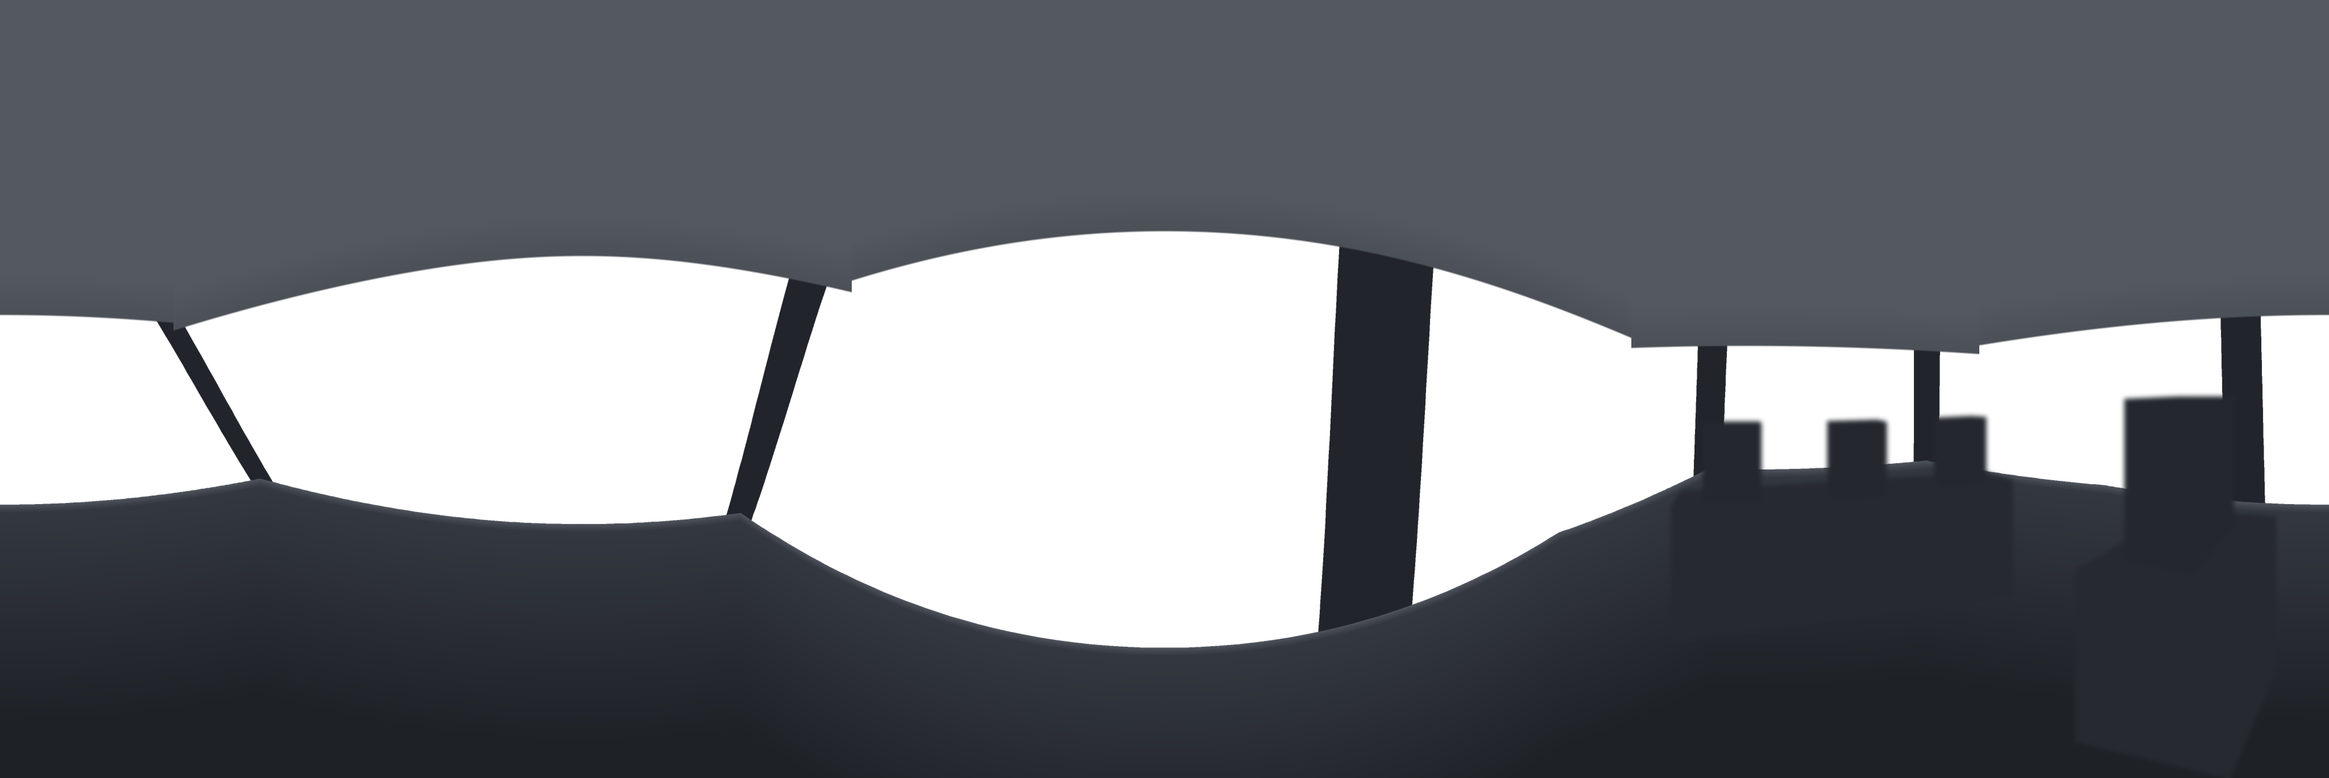
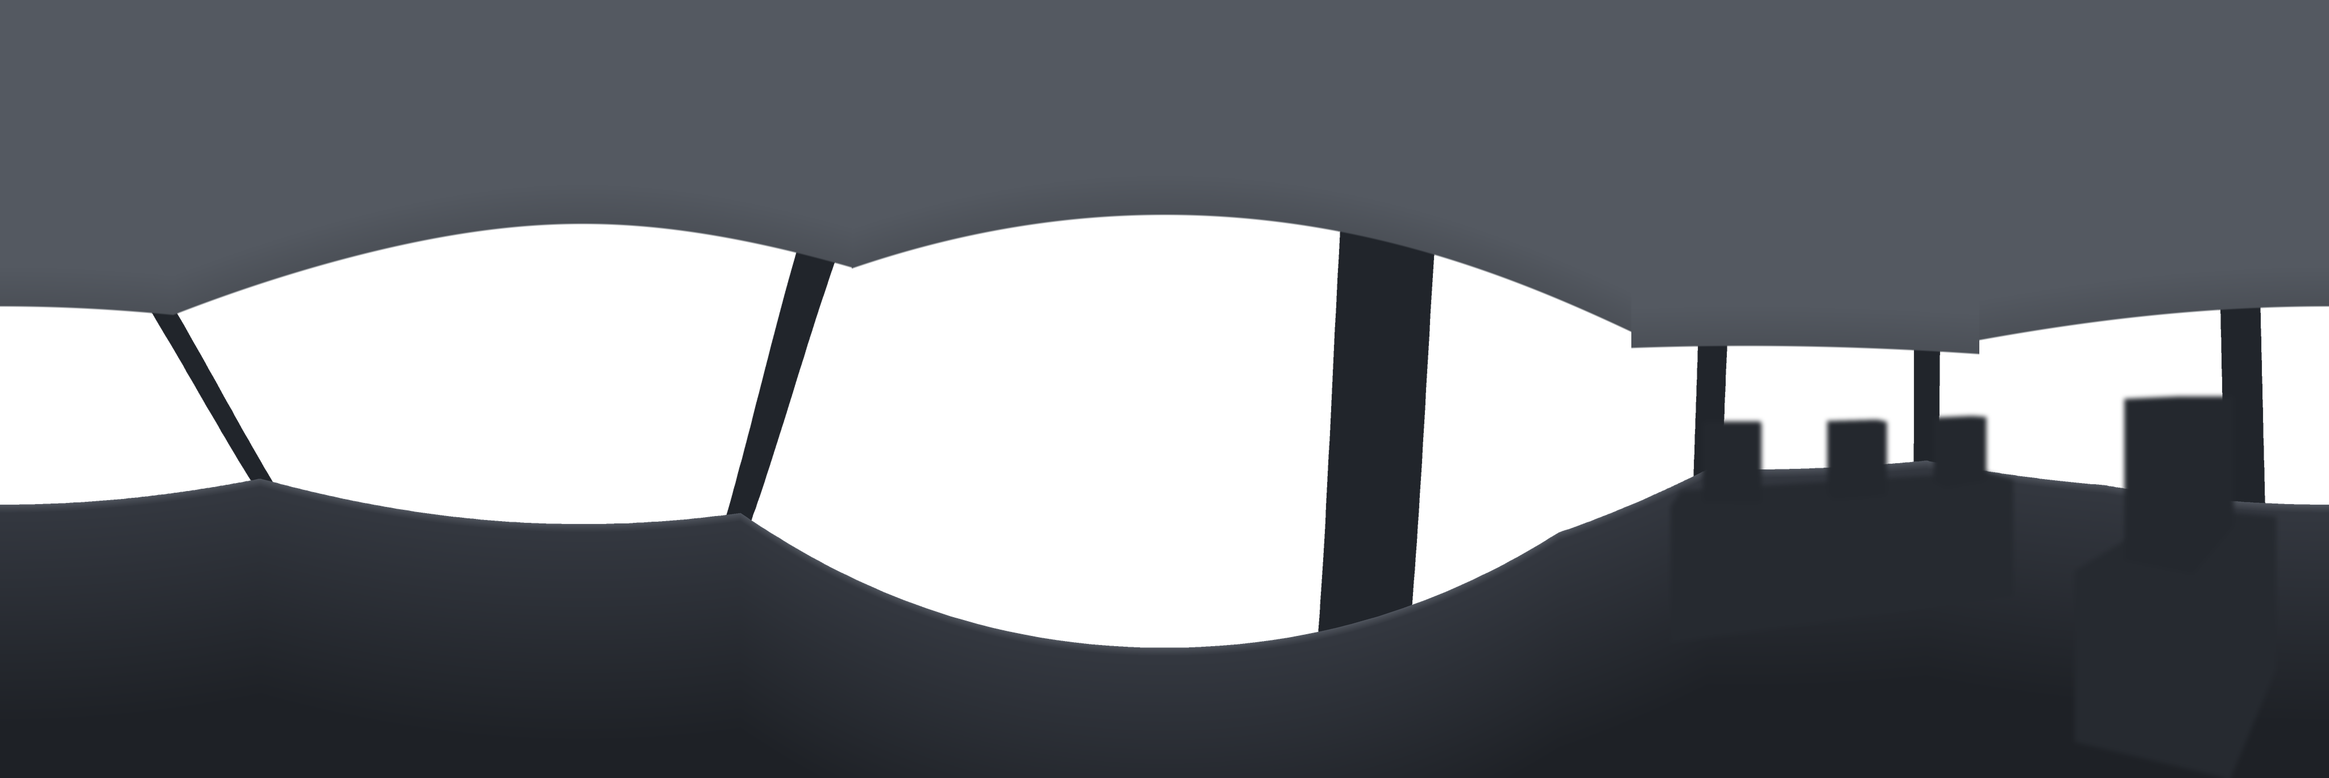
Driving view: 85° FOV, eyes slightly down; interior mirror out of normal view (only a sliver), level when glanced at
Claude-Session: https://claude.ai/code/session_016Zy8X1pPCmx7oSK87GxSWN

Changed region(s): [[0.0, 0.2761, 0.7188, 0.4295], [0.875, 0.3682, 1.0, 0.4295], [0.8438, 0.4295, 0.875, 0.4602]]

diff --git a/lib/cockpit.js b/lib/cockpit.js
@@ -11,15 +11,17 @@ const cb=(w,h,d,m,x,y,z,rx,ry,rz)=>{const o=mesh(new T.BoxGeometry(w,h,d),m,x,y,
 // 两点之间的一根杆：两端落在指定点上，保证 A 柱与车顶、仪表台真正相连
 const rod=(a,b,w,h,m)=>{const L=Math.hypot(b[0]-a[0],b[1]-a[1],b[2]-a[2]),o=new T.Mesh(new T.BoxGeometry(w,h,L),m);o.position.set((a[0]+b[0])/2,(a[1]+b[1])/2,(a[2]+b[2])/2);o.lookAt(b[0],b[1],b[2]);cockpit.add(o);return o};
 const imC=document.createElement('canvas');imC.width=256;imC.height=60;const imX=imC.getContext('2d'),imT=new T.CanvasTexture(imC),IM=new T.MeshBasicMaterial({map:imT});
-// 车顶：小轿车司机头顶到顶棚约一拳，挡风玻璃上沿只比眼睛高约 20°（全景图 pano2：上半部分按 2 倍压低）
-// 中镜挂在挡风玻璃上沿正中（约 0.6 米前、0.2 米高，抬头约 16°）：平时在画面上方看得到，但是模糊、偏暗；
+// 车顶：小轿车司机头顶到顶棚约一拳，挡风玻璃上沿比眼睛高约 24°（全景图 pano2：顶棚边缘按真车的平顶重新画过）
+// 中镜挂在挡风玻璃上沿正中（约 0.6 米前、0.26 米高，抬头约 20°）：平时往前看最多露出下面一小半（模糊、偏暗）；
 // 看中镜时视线往上抬 MPIT、镜头拉近（中镜放大约 1.5 倍）、镜子变清楚（见文件末尾 MIRF）；看中镜这一步停留得长一些（MSLOW）
 const MSLOW=.45;      // 看中镜、看外后视镜：时间走得慢一些（各约 0.8～1 秒），视线停稳在镜子上，看得清
-const MRY=-.1,MRZ=0;      // 中镜和真车一样：横着挂在挡风玻璃上沿正中，长边和车顶平行，只稍微转向司机一点
+const MRY=-.35,MRZ=0;      // 中镜和真车一样：横着挂在挡风玻璃上沿正中，长边和车顶平行，只稍微转向司机一点
 // 视角：画面横向 95°（以前 110° 太广，东西都显得又小又远，像坐在车顶很高的大车里）
-const FOVD=95;
+const FOVD=85;
+// 平时开车往前看：视线稍微往下（约 1.7°），画面上沿约比眼睛高 21°：中镜（约 20°）最多露出下面一小半，挡风玻璃上沿基本在画面外
+const BASEP=-.03;
 // 看镜子时视线正对镜子（驾驶员眼睛在车内 x=.38 处）：中镜（右上方）、左镜、右镜的方向（转头角、抬头量）
-const MYAW=.58,MPIT=.23,MLYAW=-.66,MLPIT=-.38,MRYAW=1.03,MRPIT=-.3;
+const MYAW=.57,MPIT=.39,MLYAW=-.66,MLPIT=-.3,MRYAW=1.03,MRPIT=-.22;
       // MRY：中镜朝司机这边转一点（真车的中镜也是斜着对着司机），从驾驶座看过去是正的
 // 中镜：平时是空路，停车一会儿后显示后车车头（鸣笛时它就在后面）
 function setMir(on){if(setMir.s===on)return;setMir.s=on;const x=imX,w=256,h=60,g=x.createLinearGradient(0,0,0,h);
@@ -32,7 +34,7 @@ function setMir(on){if(setMir.s===on)return;setMir.s=on;const x=imX,w=256,h=60,g
 setMir(false);
 let cluster=null,CLM=null;
 { // 车内壳体：一张环绕驾驶员的全景图（深灰、无细节），贴在驾驶员眼睛处的透明球体内侧。转头时它跟车不动。
- const pt=new T.TextureLoader().load('assets/pano2.png');pt.minFilter=T.LinearFilter;pt.generateMipmaps=false;
+ const pt=new T.TextureLoader().load('assets/pano2.png?v=1126j');pt.minFilter=T.LinearFilter;pt.generateMipmaps=false;
  const sp=new T.Mesh(new T.SphereGeometry(1.3,128,32,0,Math.PI*2,Math.PI/2-1.05,2.1),new T.MeshBasicMaterial({map:pt,transparent:true,side:T.BackSide,depthWrite:false,fog:false}));
  sp.position.set(.38,0,0);sp.renderOrder=1;sp.frustumCulled=false;cockpit.add(sp);
  // 仪表盘：只画一次的静态图（两个圆表盘）
@@ -43,14 +45,14 @@ let cluster=null,CLM=null;
   x.fillStyle='#8be3a0';x.fillRect(118,34,20,10)}));
  const cl=mesh(new T.BoxGeometry(.5,.15,.02),new T.MeshBasicMaterial({map:clT}),.38,-.42,.9);cl.rotation.x=.25;cockpit.add(cl);CLM=cl;
  // 中间后视镜：短支架
- rod([0,.27,.57],[0,.235,.61],.02,.02,DK);{const j=new T.Mesh(new T.SphereGeometry(.018,10,8),DK);j.position.set(0,.235,.61);cockpit.add(j)}   /* 连杆一直插进镜壳背面，加一个球形接头，不留缝 */cb(.07,.02,.04,DK,0,.27,.57);cb(.27,.075,.035,DK,0,.2,.6,0,MRY,MRZ);{const o=cb(.24,.052,.012,IM,0,.2,.58,0,MRY,MRZ);o.position.x-=.02*Math.sin(MRY)}}
+ rod([0,.32,.57],[0,.295,.61],.02,.02,DK);{const j=new T.Mesh(new T.SphereGeometry(.018,10,8),DK);j.position.set(0,.295,.61);cockpit.add(j)}   /* 连杆一直插进镜壳背面，加一个球形接头，不留缝 */cb(.07,.02,.04,DK,0,.32,.57);cb(.27,.075,.035,DK,0,.26,.6,0,MRY,MRZ);{const o=cb(.24,.052,.012,IM,0,.26,.58,0,MRY,MRZ);o.position.x-=.02*Math.sin(MRY)}}
 // 方向盘：只有轮圈、辐条和中心
 const wheelP=new T.Group();wheelP.position.set(.38,-.4,.62);      // 方向盘上移：能看到一半多一点，包括中间的标志
 wheelP.rotation.x=.5;wheelP.scale.set(.88,.88,.88);cockpit.add(wheelP);
 const wheel=new T.Group();wheelP.add(wheel);
 wheel.add(mesh(new T.TorusGeometry(.17,.03,12,32),DK,0,0,0));
 // 按屏幕比例摆放方向盘：不管电脑还是手机，方向盘中心（标志）都在画面下沿往上一点，露出一半多一点
-function fitWheel(){const vh=Math.min(105,2*Math.atan(Math.tan(FOVD/2*Math.PI/180)/cam.aspect)*180/Math.PI)/2*Math.PI/180,ang=vh*.88;      // 方向盘中心在画面下沿往上约四分之一处
+function fitWheel(){const vh=Math.min(105,2*Math.atan(Math.tan(FOVD/2*Math.PI/180)/cam.aspect)*180/Math.PI)/2*Math.PI/180,ang=vh*.88+.05-Math.atan(BASEP);      // 方向盘中心在画面下沿往上约四分之一处
  wheelP.position.y=-.62*Math.tan(ang);if(CLM)CLM.position.y=-.9*Math.tan(Math.max(.05,ang-.12))}
 wheel.add(mesh(new T.BoxGeometry(.3,.04,.03),DK,0,0,0));wheel.add(mesh(new T.BoxGeometry(.04,.15,.03),DK,0,-.09,0));
 {const hub=mesh(new T.CylinderGeometry(.068,.068,.05,20),DK2,0,0,0);hub.rotation.x=Math.PI/2;wheel.add(hub);
@@ -59,7 +61,7 @@ const rr=(w,h,r)=>{const s=new T.Shape(),x=-w/2,y=-h/2;s.moveTo(x+r,y);s.lineTo(
 // 三个后视镜的贴图：一个朝后的小镜头，画面左右翻转后贴在镜面上
 const MR=[];function mkMir(w,h,pos,dir,fov){const rt=new T.WebGLRenderTarget(w,h,{minFilter:T.LinearFilter,magFilter:T.LinearFilter});rt.texture.wrapS=T.RepeatWrapping;rt.texture.repeat.x=-1;rt.texture.offset.x=1;
  const m={rt,c:new T.PerspectiveCamera(fov,w/h,.3,300),pos:new T.Vector3(pos[0],pos[1],pos[2]),dir:new T.Vector3(dir[0],dir[1],dir[2]).normalize()};MR.push(m);return m}
-const MRI=mkMir(256,64,[0,.2,.57],[0,-.04,-1],12),MRL=mkMir(256,128,[1.08,-.3,.9],[.22,-.03,-1],18),MRR=mkMir(256,128,[-1.12,-.3,.9],[-.22,-.03,-1],18);
+const MRI=mkMir(256,64,[0,.26,.57],[0,-.04,-1],12),MRL=mkMir(256,128,[1.08,-.3,.9],[.22,-.03,-1],18),MRR=mkMir(256,128,[-1.12,-.3,.9],[-.22,-.03,-1],18);
 IM.map=MRI.rt.texture;IM.needsUpdate=true;
 // 左右外后视镜：只有镜面＋薄薄的车身色外框，朝向驾驶员
 [[1,1.08,.66,.9],[-1,-1.12,-1.03,.9]].forEach(a=>{const g=new T.Group();g.position.set(a[1],-.3,a[3]);g.rotation.y=a[2];cockpit.add(g);

diff --git a/green-right.js b/green-right.js
@@ -306,7 +306,7 @@ function loop(ts){const dt=Math.min(.05,(ts-last)/1000||0),HY=headS(R,dt);last=t
  if(R.sig&&playing&&!R.over){const on=Math.sin(ts/1000*9.4)>0;$('sg').style.opacity=on?1:.15;if(on!==loop.sgOn){loop.sgOn=on;tick(on)}}
  const q=myPath(R.u);place(mine,q[0],q[1],q[2]);
  if(R.lc){const on=R.lc.u<R.lc.La+1.5,b=Math.sin(ts/1000*15)>0;R.lc.car.userData.bl.forEach(m=>m.visible=on&&b)}
- if(view===1){const h=q[2]+HY.y+yawD,lk=R.lookT>=0&&R.tgt,L=lk?R.lookD:(R.lookT>=0?14:10);fovH+=((lk?FOVD-12:FOVD)-fovH)*.15;cam.fov=Math.min(105,2*Math.atan(Math.tan(fovH*Math.PI/360)/cam.aspect)*180/Math.PI);cam.updateProjectionMatrix();const ox=.38*Math.cos(q[2]),oz=.38*Math.sin(q[2]),bx0=-q[0]+Math.sin(q[2])*.2,bz0=q[1]-Math.cos(q[2])*.2;cam.position.set(bx0+ox,1.25,bz0+oz);cam.lookAt(-q[0]-Math.sin(h)*L+ox,(lk?1.2:1.25+L*.05)+HY.p*L,q[1]+Math.cos(h)*L+oz);
+ if(view===1){const h=q[2]+HY.y+yawD,lk=R.lookT>=0&&R.tgt,L=lk?R.lookD:(R.lookT>=0?14:10);fovH+=((lk?FOVD-12:FOVD)-fovH)*.15;cam.fov=Math.min(105,2*Math.atan(Math.tan(fovH*Math.PI/360)/cam.aspect)*180/Math.PI);cam.updateProjectionMatrix();const ox=.38*Math.cos(q[2]),oz=.38*Math.sin(q[2]),bx0=-q[0]+Math.sin(q[2])*.2,bz0=q[1]-Math.cos(q[2])*.2;cam.position.set(bx0+ox,1.25,bz0+oz);cam.lookAt(-q[0]-Math.sin(h)*L+ox,(lk?1.2:1.25+L*BASEP)+HY.p*L,q[1]+Math.cos(h)*L+oz);
   cockpit.visible=true;cockpit.position.set(bx0,1.25,bz0);cockpit.rotation.y=-q[2];
   const dh=normA(q[2]-lastH)/Math.max(dt,.001);lastH=q[2];wheel.rotation.z+=((Math.max(-2.6,Math.min(2.6,dh*2.4)))-wheel.rotation.z)*Math.min(1,dt*10)}
  else{cockpit.visible=false;if(cam.fov!==62){cam.fov=62;cam.updateProjectionMatrix()}cam.position.set(0,64,-9);cam.lookAt(0,0,-1)}      /* 俯视：固定从本方向（南边）往前看，不能转 */

diff --git a/lib/lowspeed.js b/lib/lowspeed.js
@@ -227,7 +227,7 @@ function loop(ts){const dt=Math.min(.05,(ts-last)/1000||0),HY=headS(R,dt,3.6);  
  const sz=ren.getSize(new T.Vector2()),W=sz.x,HH=sz.y,w2=SCN.noSplit?W:Math.floor(W/2),      /* noSplit：只有驾驶视角，不分屏 */Y=SCN.Y(R.z),gr=Math.atan(SCN.g||0);
  {const h=R.h+HY.y,L=10,fovH=FOVD;cam.aspect=w2/HH;cam.fov=Math.min(105,2*Math.atan(Math.tan(fovH*Math.PI/360)/cam.aspect)*180/Math.PI);cam.updateProjectionMatrix();
   const ox=.38*Math.cos(R.h),oz=.38*Math.sin(R.h),bx0=-R.x+Math.sin(R.h)*.2,bz0=R.z-Math.cos(R.h)*.2;const pitchG=Math.cos(R.h)*(SCN.g||0);
-  cam.position.set(bx0+ox,Y+1.25,bz0+oz);cam.lookAt(-R.x-Math.sin(h)*L+ox,Y+1.25+L*.03+HY.p*L+pitchG*L*Math.cos(HY.y),R.z+Math.cos(h)*L+oz);
+  cam.position.set(bx0+ox,Y+1.25,bz0+oz);cam.lookAt(-R.x-Math.sin(h)*L+ox,Y+1.25+L*BASEP+HY.p*L+pitchG*L*Math.cos(HY.y),R.z+Math.cos(h)*L+oz);
   cockpit.visible=true;cockpit.position.set(bx0,Y+1.25,bz0);cockpit.rotation.order='YXZ';cockpit.rotation.y=-R.h;cockpit.rotation.x=-Math.atan(pitchG);wheel.rotation.z=R.w*WLOCK*Math.PI/180}      /* 往左打，方向盘看起来也往左转（原来方向反了） */
  $('sp').textContent=(Math.abs(R.v)*3.6).toFixed(0);if(cluster)cluster(Math.round(Math.abs(R.v)*3.6));
  MRR.tilt=(MRR.tilt||0)+(((R.gear==='R')?1:0)-(MRR.tilt||0))*Math.min(1,dt*4);MRR.dir.copy(MRR.d0).lerp(MRR.dR,MRR.tilt).normalize();if(SCN.tiltL){MRL.tilt=(MRL.tilt||0)+(((R.gear==='R')?1:0)-(MRL.tilt||0))*Math.min(1,dt*4);MRL.dir.copy(MRL.d0).lerp(MRL.dR,MRL.tilt).normalize()}      /* 停车场倒车：两边外后视镜都往下翻，看得到两边的车位线和自己的车身（看车正不正） */      // 挂 R 时右镜自动往下翻，看得到右后轮和路缘（有些车有这个功能）

diff --git a/highway-on.js b/highway-on.js
@@ -258,7 +258,7 @@ function loop(ts){const dt=Math.min(.05,(ts-last)/1000||0),HY=headS(R,dt);last=t
  if(view===1){const h=q[2]+HY.y+yawD,L=R.look?6:10,fT=FOVD;      /* 观察时不放大画面，只转头 */fovH+=(fT-fovH)*Math.min(1,dt*3.5);{const sz=ren.getSize(new T.Vector2());cam.aspect=sz.x/sz.y}cam.fov=Math.min(105,2*Math.atan(Math.tan(fovH*Math.PI/360)/cam.aspect)*180/Math.PI);cam.updateProjectionMatrix();
   const ox=.38*Math.cos(q[2]),oz=.38*Math.sin(q[2]),bx0=-q[0]+Math.sin(q[2])*.2,bz0=q[1]-Math.cos(q[2])*.2;const sk=R.crash&&R.t-R.crash.t<.7?(1-(R.t-R.crash.t)/.7)*.12:0;
   const Y=myY();cam.position.set(bx0+ox+(Math.random()-.5)*sk,Y+1.25+(Math.random()-.5)*sk,bz0+oz+(Math.random()-.5)*sk);
-  const gr=R.mz!=null?0:grade(R.u);cam.lookAt(-q[0]-Math.sin(h)*L+ox,Y+1.25+L*.05+HY.p*L+gr*L*Math.cos(HY.y),q[1]+Math.cos(h)*L+oz);      /* 上坡时视线跟着往上 */
+  const gr=R.mz!=null?0:grade(R.u);cam.lookAt(-q[0]-Math.sin(h)*L+ox,Y+1.25+L*BASEP+HY.p*L+gr*L*Math.cos(HY.y),q[1]+Math.cos(h)*L+oz);      /* 上坡时视线跟着往上 */
   cockpit.visible=true;cockpit.position.set(bx0,Y+1.25,bz0);cockpit.rotation.order='YXZ';cockpit.rotation.y=-q[2];cockpit.rotation.x=-Math.atan(gr);
   const dh=normA(q[2]-lastH)/Math.max(dt,.001);lastH=q[2];wheel.rotation.z+=((Math.max(-2.6,Math.min(2.6,dh*2.4)))-wheel.rotation.z)*Math.min(1,dt*10)}
  else{cockpit.visible=false;if(cam.fov!==62){cam.fov=62;cam.updateProjectionMatrix()}const h=q[2];cam.position.set(-q[0]+Math.sin(h)*26,42+myY(),q[1]-Math.cos(h)*26);cam.lookAt(-q[0]-Math.sin(h)*14,myY(),q[1]+Math.cos(h)*14)}      /* 俯视：跟着你的车，从后上方往前看 */

diff --git a/green-left.js b/green-left.js
@@ -487,7 +487,7 @@ function loop(ts){const dt=Math.min(.05,(ts-last)/1000||0),HY=headS(R,dt);last=t
  if((R.sig||(R.kr&&R.kr.sig))&&playing&&!R.over){const on=Math.sin(ts/1000*9.4)>0;$('sg').style.opacity=on?1:.15;if(on!==loop.sgOn){loop.sgOn=on;tick(on)}}
  const q=myPath(R.u);place(mine,q[0],q[1],q[2]);{const sR=R.kr&&R.kr.sig==='R',on=R.kr?!!R.kr.sig:!!R.sig;if(mine.userData.bl[0]&&(mine.userData.bl[0].position.x<0)!==sR)mine.userData.bl.forEach(m=>m.position.x=-m.position.x);mine.userData.bl.forEach(m=>m.visible=on&&bl)}
  if(view===1){const ln=R.lean||0,h=q[2]+HY.y+yawD-.2*ln,L=R.scT>=0?14:10;cam.fov=Math.min(105,2*Math.atan(Math.tan(fovH*Math.PI/360)/cam.aspect)*180/Math.PI);cam.updateProjectionMatrix();const ox=(.38+.14*ln)*Math.cos(q[2]),oz=(.38+.14*ln)*Math.sin(q[2]),bx0=-q[0]+Math.sin(q[2])*.2,bz0=q[1]-Math.cos(q[2])*.2;const sk=R.crash&&R.t-R.crash.t<.7?(1-(R.t-R.crash.t)/.7)*.12:0;cam.position.set(bx0+ox+(Math.random()-.5)*sk,1.25+(Math.random()-.5)*sk,bz0+oz+(Math.random()-.5)*sk);
-  cam.lookAt(-q[0]-Math.sin(h)*L+ox,1.25+L*.05+HY.p*L,q[1]+Math.cos(h)*L+oz);
+  cam.lookAt(-q[0]-Math.sin(h)*L+ox,1.25+L*BASEP+HY.p*L,q[1]+Math.cos(h)*L+oz);
   cockpit.visible=true;cockpit.position.set(bx0,1.25,bz0);cockpit.rotation.y=-q[2];
   const dh=normA(q[2]-lastH)/Math.max(dt,.001);lastH=q[2];wheel.rotation.z+=((Math.max(-2.6,Math.min(2.6,dh*2.4)))-wheel.rotation.z)*Math.min(1,dt*10)}
  else{cockpit.visible=false;if(cam.fov!==62){cam.fov=62;cam.updateProjectionMatrix()}cam.position.set(0,64,-9);cam.lookAt(0,0,-1)}      /* 俯视：固定从本方向（南边）往前看，不能转 */

diff --git a/lane-change.js b/lane-change.js
@@ -137,7 +137,7 @@ function loop(ts){const dt=Math.min(.05,(ts-last)/1000||0),HY=headS(R,dt);last=t
  if(view===1){const h=q[2]+HY.y+yawD,L=R.look?6:10,fT=FOVD;      /* 看镜子、看盲点都不再放大画面（和其他场景的右侧观察一样，只转头） */fovH+=(fT-fovH)*Math.min(1,dt*3.5);      /* 看后视镜时视线集中在镜子上：画面放大，镜子变大 */cam.fov=Math.min(105,2*Math.atan(Math.tan(fovH*Math.PI/360)/cam.aspect)*180/Math.PI);cam.updateProjectionMatrix();
   const ox=.38*Math.cos(q[2]),oz=.38*Math.sin(q[2]),bx0=-q[0]+Math.sin(q[2])*.2,bz0=q[1]-Math.cos(q[2])*.2;const sk=R.crash&&R.t-R.crash.t<.7?(1-(R.t-R.crash.t)/.7)*.12:0;
   cam.position.set(bx0+ox+(Math.random()-.5)*sk,1.25+(Math.random()-.5)*sk,bz0+oz+(Math.random()-.5)*sk);
-  cam.lookAt(-q[0]-Math.sin(h)*L+ox,1.25+L*.05+HY.p*L,q[1]+Math.cos(h)*L+oz);
+  cam.lookAt(-q[0]-Math.sin(h)*L+ox,1.25+L*BASEP+HY.p*L,q[1]+Math.cos(h)*L+oz);
   cockpit.visible=true;cockpit.position.set(bx0,1.25,bz0);cockpit.rotation.y=-q[2];
   const dh=normA(q[2]-lastH)/Math.max(dt,.001);lastH=q[2];wheel.rotation.z+=((Math.max(-2.6,Math.min(2.6,dh*2.4)))-wheel.rotation.z)*Math.min(1,dt*10)}
  else{cockpit.visible=false;if(cam.fov!==62){cam.fov=62;cam.updateProjectionMatrix()}cam.position.set(-3.5,42,R.z-26);cam.lookAt(-3.5,0,R.z+14)}      /* 俯视：跟着你的车，从后上方往前看 */

diff --git a/red-right.js b/red-right.js
@@ -274,7 +274,7 @@ function loop(ts){const dt=Math.min(.05,(ts-last)/1000||0),HY=headS(R,dt);last=t
  if(R.sig&&playing&&!R.over){const on=Math.sin(ts/1000*9.4)>0;$('sg').style.opacity=on?1:.15;if(on!==loop.sgOn){loop.sgOn=on;tick(on)}}
  const q=myPath(R.u);place(mine,q[0],q[1],q[2]);
  if(view===1){const h=q[2]+HY.y+yawD,L=R.lookT>=0||R.scT>=0?14:10;cam.fov=Math.min(105,2*Math.atan(Math.tan(fovH*Math.PI/360)/cam.aspect)*180/Math.PI);cam.updateProjectionMatrix();const ox=.38*Math.cos(q[2]),oz=.38*Math.sin(q[2]),bx0=-q[0]+Math.sin(q[2])*.2,bz0=q[1]-Math.cos(q[2])*.2;const sk=R.crash&&R.t-R.crash.t<.7?(1-(R.t-R.crash.t)/.7)*.12:0;cam.position.set(bx0+ox+(Math.random()-.5)*sk,1.25+(Math.random()-.5)*sk,bz0+oz+(Math.random()-.5)*sk);      // 撞车时镜头晃一下
- cam.lookAt(-q[0]-Math.sin(h)*L+ox,1.25+L*.05+HY.p*L,q[1]+Math.cos(h)*L+oz);
+ cam.lookAt(-q[0]-Math.sin(h)*L+ox,1.25+L*BASEP+HY.p*L,q[1]+Math.cos(h)*L+oz);
   cockpit.visible=true;cockpit.position.set(bx0,1.25,bz0);cockpit.rotation.y=-q[2];
   const dh=normA(q[2]-lastH)/Math.max(dt,.001);lastH=q[2];wheel.rotation.z+=((Math.max(-2.6,Math.min(2.6,dh*2.4)))-wheel.rotation.z)*Math.min(1,dt*10)}
  else{cockpit.visible=false;if(cam.fov!==62){cam.fov=62;cam.updateProjectionMatrix()}cam.position.set(0,64,-9);cam.lookAt(0,0,-1)}      /* 俯视：固定从本方向（南边）往前看，不能转 */

diff --git a/highway-off.js b/highway-off.js
@@ -253,7 +253,7 @@ function loop(ts){const dt=Math.min(.05,(ts-last)/1000||0),HY=headS(R,dt);last=t
  {const h=q[2]+HY.y+yawD,L=R.look?6:10,fT=FOVD;      /* 观察时不放大画面，只转头 */fovH+=(fT-fovH)*Math.min(1,dt*3.5);{const sz=ren.getSize(new T.Vector2());cam.aspect=sz.x/sz.y}cam.fov=Math.min(105,2*Math.atan(Math.tan(fovH*Math.PI/360)/cam.aspect)*180/Math.PI);cam.updateProjectionMatrix();
   const ox=.38*Math.cos(q[2]),oz=.38*Math.sin(q[2]),bx0=-q[0]+Math.sin(q[2])*.2,bz0=q[1]-Math.cos(q[2])*.2;const sk=R.crash&&R.t-R.crash.t<.7?(1-(R.t-R.crash.t)/.7)*.12:0;
   const Y=myY();cam.position.set(bx0+ox+(Math.random()-.5)*sk,Y+1.25+(Math.random()-.5)*sk,bz0+oz+(Math.random()-.5)*sk);
-  const gr=R.mz!=null?0:grade(R.u);cam.lookAt(-q[0]-Math.sin(h)*L+ox,Y+1.25+L*.05+HY.p*L+gr*L*Math.cos(HY.y),q[1]+Math.cos(h)*L+oz);
+  const gr=R.mz!=null?0:grade(R.u);cam.lookAt(-q[0]-Math.sin(h)*L+ox,Y+1.25+L*BASEP+HY.p*L+gr*L*Math.cos(HY.y),q[1]+Math.cos(h)*L+oz);
   cockpit.visible=true;cockpit.position.set(bx0,Y+1.25,bz0);cockpit.rotation.order='YXZ';cockpit.rotation.y=-q[2];cockpit.rotation.x=-Math.atan(gr);
   const dh=normA(q[2]-lastH)/Math.max(dt,.001);lastH=q[2];wheel.rotation.z+=((Math.max(-2.6,Math.min(2.6,dh*2.4)))-wheel.rotation.z)*Math.min(1,dt*10)}
  $('sp').textContent=Math.round(R.v*3.6);if(cluster)cluster(Math.round(R.v*3.6));

diff --git a/straight.js b/straight.js
@@ -154,7 +154,7 @@ function loop(ts){const dt=Math.min(.05,(ts-last)/1000||0),HY=headS(R,dt);last=t
  pedSigTick(ts);
  const q=myPath(R.u);place(mine,q[0],q[1],q[2]);
  if(view===1){const h=q[2]+HY.y+yawD,L=R.mirT>=0||R.scT>=0?14:10;cam.fov=Math.min(105,2*Math.atan(Math.tan(fovH*Math.PI/360)/cam.aspect)*180/Math.PI);cam.updateProjectionMatrix();const ox=.38*Math.cos(q[2]),oz=.38*Math.sin(q[2]),bx0=-q[0]+Math.sin(q[2])*.2,bz0=q[1]-Math.cos(q[2])*.2;const sk=R.crash&&R.t-R.crash.t<.7?(1-(R.t-R.crash.t)/.7)*.12:0;cam.position.set(bx0+ox+(Math.random()-.5)*sk,1.25+(Math.random()-.5)*sk,bz0+oz+(Math.random()-.5)*sk);
-  cam.lookAt(-q[0]-Math.sin(h)*L+ox,1.25+L*.05+HY.p*L,q[1]+Math.cos(h)*L+oz);
+  cam.lookAt(-q[0]-Math.sin(h)*L+ox,1.25+L*BASEP+HY.p*L,q[1]+Math.cos(h)*L+oz);
   cockpit.visible=true;cockpit.position.set(bx0,1.25,bz0);cockpit.rotation.y=-q[2];wheel.rotation.z+=(0-wheel.rotation.z)*Math.min(1,dt*10)}
  else{cockpit.visible=false;if(cam.fov!==62){cam.fov=62;cam.updateProjectionMatrix()}cam.position.set(-q[0],64,q[1]+6);cam.lookAt(-q[0],0,q[1]+15)}
  {const k=Math.round(R.v*3.6),e=$('sp');e.textContent=k;e.style.color=R.over||k<5?'':k>64?'#ff6b5a':k<53&&!(VAR==='red'&&R.tG==null)?'#ffc21a':'#6ee787'}tipTick();if(cluster)cluster(Math.round(R.v*3.6));

diff --git a/stop-left.js b/stop-left.js
@@ -373,7 +373,7 @@ function loop(ts){const dt=Math.min(.05,(ts-last)/1000||0),HY=headS(R,dt);last=t
  if(view===1){const h=q[2]+HY.y+yawD,L=10;cam.fov=Math.min(105,2*Math.atan(Math.tan(fovH*Math.PI/360)/cam.aspect)*180/Math.PI);cam.updateProjectionMatrix();
   const ox=.38*Math.cos(q[2]),oz=.38*Math.sin(q[2]),bx0=-q[0]+Math.sin(q[2])*.2,bz0=q[1]-Math.cos(q[2])*.2;const sk=R.crash&&R.t-R.crash.t<.7?(1-(R.t-R.crash.t)/.7)*.12:0;
   cam.position.set(bx0+ox+(Math.random()-.5)*sk,1.25+(Math.random()-.5)*sk,bz0+oz+(Math.random()-.5)*sk);
-  cam.lookAt(-q[0]-Math.sin(h)*L+ox,1.25+L*.05,q[1]+Math.cos(h)*L+oz);
+  cam.lookAt(-q[0]-Math.sin(h)*L+ox,1.25+L*BASEP,q[1]+Math.cos(h)*L+oz);
   cockpit.visible=true;cockpit.position.set(bx0,1.25,bz0);cockpit.rotation.order='YXZ';cockpit.rotation.y=-q[2];cockpit.rotation.x=0;
   const dh=normA(q[2]-lastH)/Math.max(dt,.001);lastH=q[2];wheel.rotation.z+=((Math.max(-2.6,Math.min(2.6,dh*2.4)))-wheel.rotation.z)*Math.min(1,dt*10)}
  else{cockpit.visible=false;if(cam.fov!==50){cam.fov=50;cam.updateProjectionMatrix()}cam.position.set(0,62,-16);cam.lookAt(0,0,-2)}      /* 俯视：固定在路口上方 */

diff --git a/highway-off.html b/highway-off.html
@@ -90,7 +90,7 @@ details{margin:8px 0;font-size:14px}summary{cursor:pointer;color:#2f6fe0;font-we
 <script src="lib/core.js?v=1120d"></script>
 <script src="lib/en.js?v=1126a"></script>
 <script src="lib/actors.js?v=1112y"></script>
-<script src="lib/cockpit.js?v=1126i"></script>
+<script src="lib/cockpit.js?v=1126j"></script>
 <script src="lib/hq.js?v=1117d"></script>
 <script src="lib/ui.js?v=1117s"></script>
 <script src="lib/hwy-opt.js?v=1031a"></script>
@@ -98,7 +98,7 @@ details{margin:8px 0;font-size:14px}summary{cursor:pointer;color:#2f6fe0;font-we
 <script src="lib/ads.js?v=1104c"></script>
 <script src="lib/billboard.js?v=1110o"></script>
 <script src="lib/road2.js?v=1117s"></script>
-<script src="highway-off.js?v=1126f"></script>
+<script src="highway-off.js?v=1126j"></script>
 <script src="lib/voice.js?v=1125e"></script>
 <script src="lib/mock.js?v=1121a"></script>
 <script src="lib/sit.js?v=1126c"></script>

diff --git a/highway-on.html b/highway-on.html
@@ -88,14 +88,14 @@ details{margin:8px 0;font-size:14px}summary{cursor:pointer;color:#2f6fe0;font-we
 <script src="lib/core.js?v=1120d"></script>
 <script src="lib/en.js?v=1126a"></script>
 <script src="lib/actors.js?v=1112y"></script>
-<script src="lib/cockpit.js?v=1126i"></script>
+<script src="lib/cockpit.js?v=1126j"></script>
 <script src="lib/hq.js?v=1117d"></script>
 <script src="lib/ui.js?v=1117s"></script>
 <script src="lib/hwy-opt.js?v=1031a"></script>
 <script src="lib/ads.js?v=1104c"></script>
 <script src="lib/billboard.js?v=1110o"></script>
 <script src="lib/road2.js?v=1117s"></script>
-<script src="highway-on.js?v=1126f"></script>
+<script src="highway-on.js?v=1126j"></script>
 <script src="lib/voice.js?v=1125e"></script>
 <script src="lib/mock.js?v=1121a"></script>
 <script src="lib/sit.js?v=1126c"></script>
